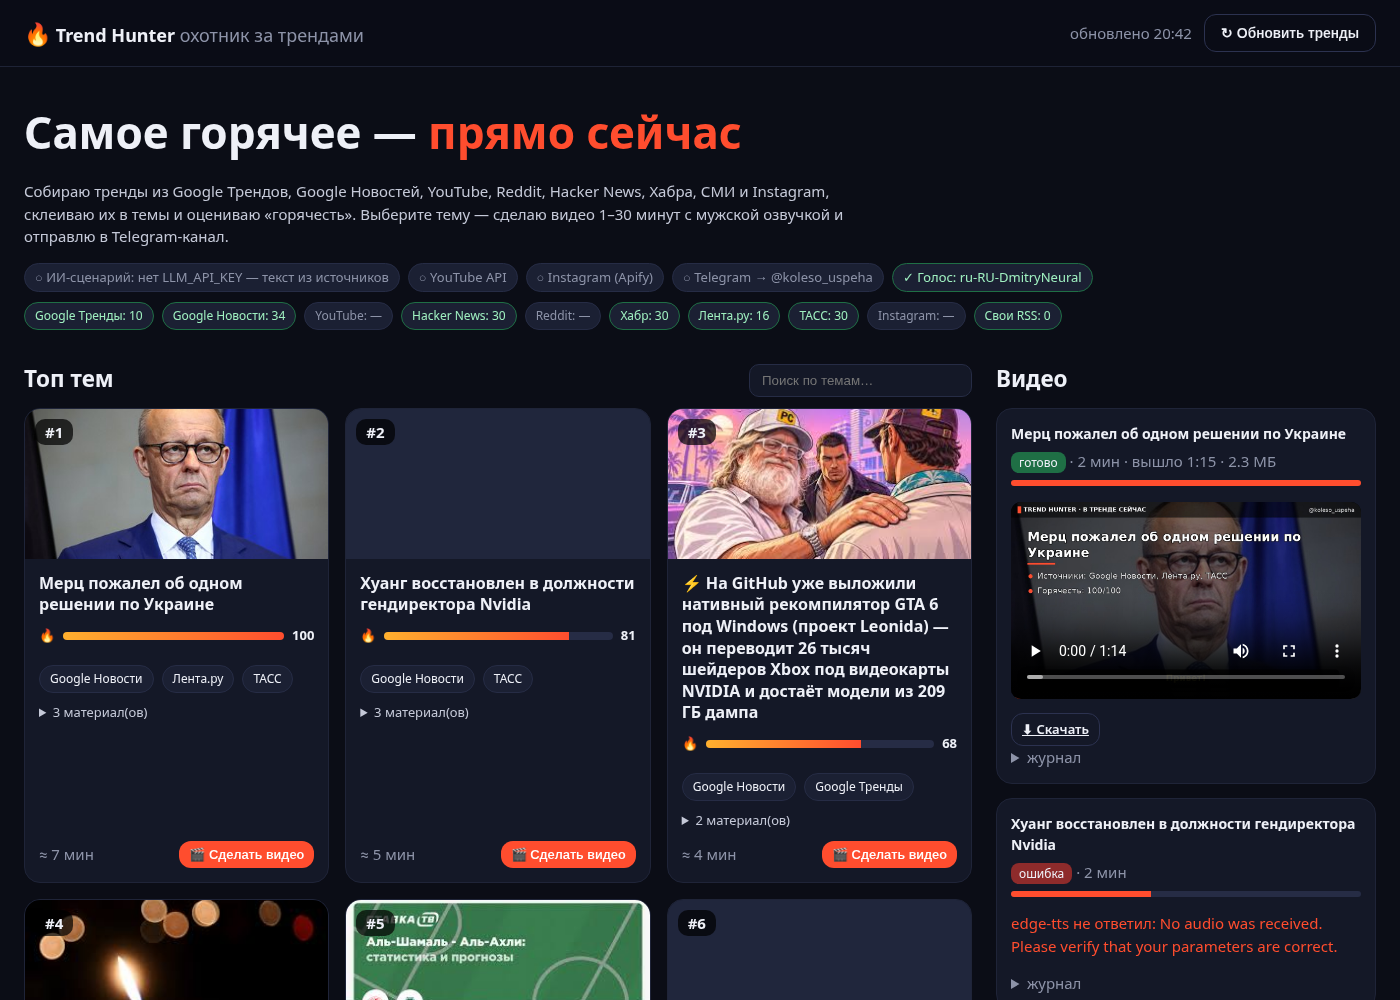
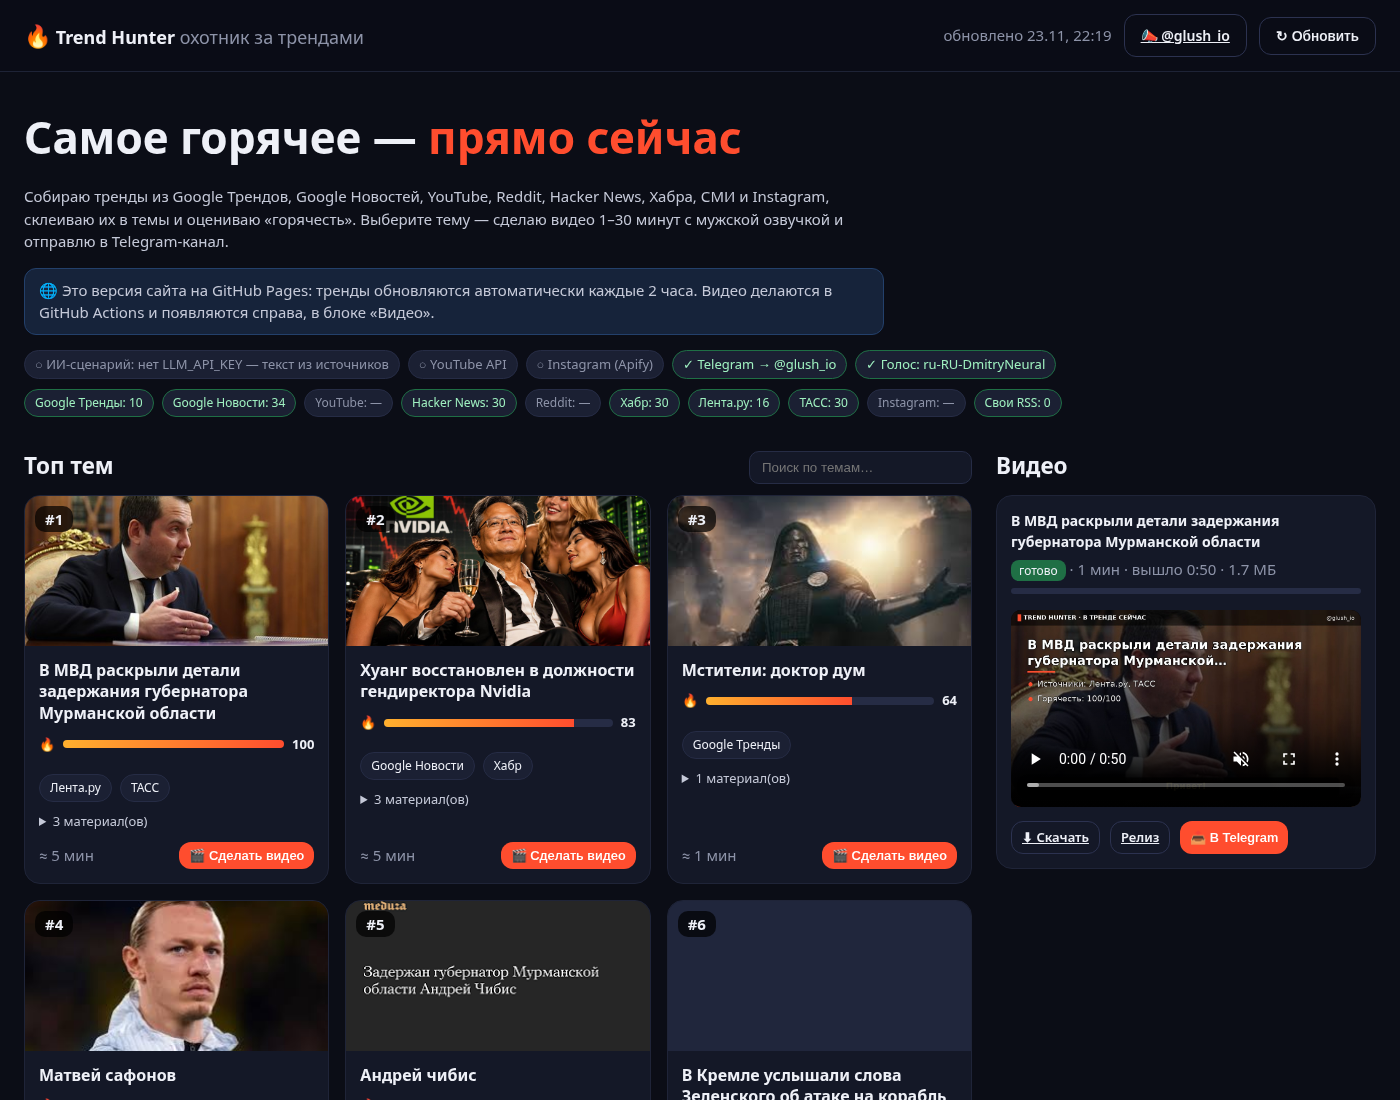
Pages: без кнопки отправки на статическом сайте, новый скриншот

diff --git a/app/static/app.js b/app/static/app.js
@@ -153,7 +153,7 @@ async function loadJobs() {
         ${j.video ? `<a class="btn small ghost" href="${esc(j.download || j.video)}" download>⬇ Скачать</a>` : ""}
         ${(j.parts || []).length > 1 ? `<span class="muted">частей: ${j.parts.length}</span>` : ""}
         ${j.release ? `<a class="btn small ghost" href="${esc(j.release)}" target="_blank" rel="noopener">Релиз</a>` : ""}
-        ${(j.status === "done") && CFG.keys.telegram ? `<button class="btn small" data-pub="${j.id}">📤 В Telegram</button>` : ""}
+        ${!STATIC && (j.status === "done") && CFG.keys.telegram ? `<button class="btn small" data-pub="${j.id}">📤 В Telegram</button>` : ""}
       </div>
       ${(j.log || []).length ? `<details><summary class="muted">журнал</summary><div class="log">${esc((j.log || []).join("\n"))}</div></details>` : ""}
     </div>`).join("");
